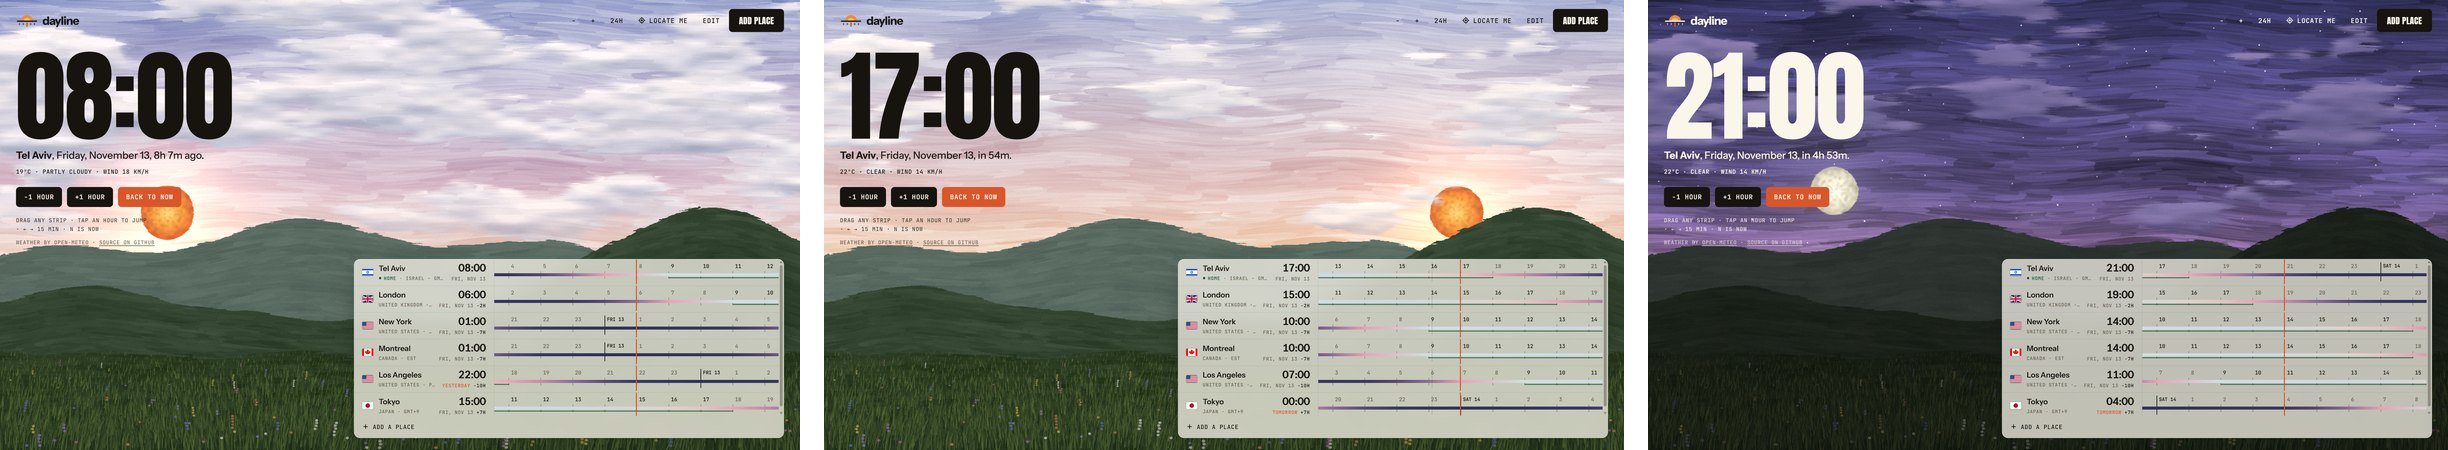
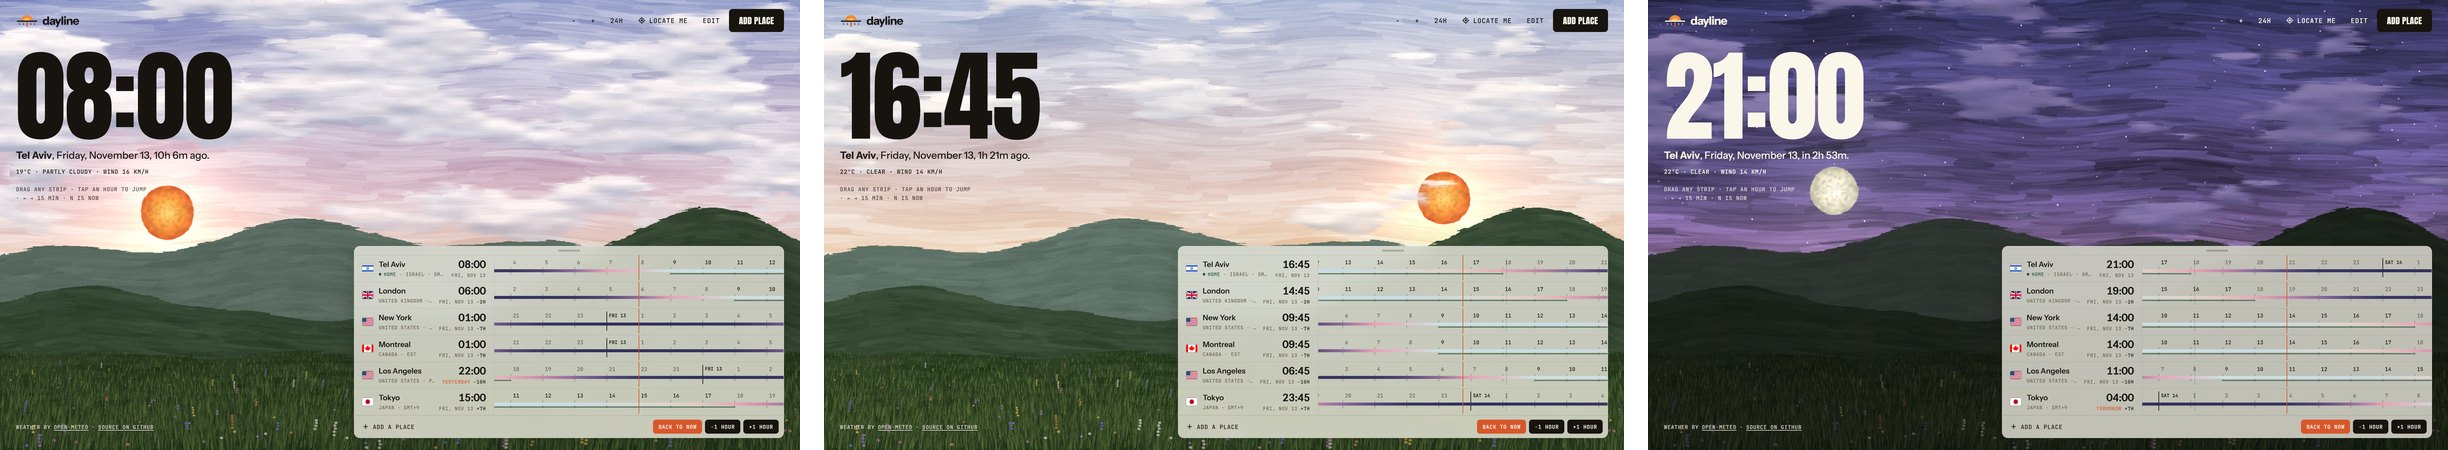
Refresh screenshots for the new layout; short hour labels on phones
- Preview and day strip now show the hour steps in the panel footer and the
  credit at the bottom-left.
- On phones the footer buttons read Now / -1h / +1h so Add a place stays on one line.
- README: describe the footer controls, Edit mode, and how city search really works.

diff --git a/index.html b/index.html
@@ -70,7 +70,8 @@ nav{position:relative;z-index:5;display:flex;align-items:center;gap:6px;padding:
 .credit a{color:inherit;text-decoration:underline;text-underline-offset:2px;text-decoration-thickness:1px}
 .credit a:hover{color:var(--cream)}
 .sheet-foot{flex:none;display:flex;align-items:center;gap:12px;padding-right:10px;border-top:1px solid var(--rule)}
-.sheet-foot .add-row{width:auto;flex:1}
+.sheet-foot .add-row{width:auto;flex:1;white-space:nowrap;min-width:0}
+.ctl .sm{display:none}
 .controls{display:flex;gap:6px;flex:none}
 .ctl{height:28px;padding:0 11px;border-radius:6px;background:var(--ink);color:var(--cream);font-size:10.5px;white-space:nowrap}
 .ctl:hover{background:#2B261D}
@@ -182,6 +183,8 @@ dialog::backdrop{background:rgba(23,20,15,.55)}
   .loc span{display:none}
   .ctl{height:30px;padding:0 10px;font-size:10.5px}
   .sheet-foot .add-row{padding:0 12px}
+  .ctl .lg{display:none}
+  .ctl .sm{display:inline}
   :root{--label-w:auto}
   .card{grid-template-columns:auto minmax(0,1fr) auto;grid-template-areas:"h l a" "s s s"}
   .label{border-right:0;padding:9px 12px 2px}
@@ -222,9 +225,9 @@ dialog::backdrop{background:rgba(23,20,15,.55)}
         <div class="sheet-foot">
           <button class="add-row mono" id="addBtn2"><svg viewBox="0 0 24 24" fill="none" stroke="currentColor" stroke-width="2.6" stroke-linecap="round"><path d="M12 5v14M5 12h14"/></svg>Add a place</button>
           <div class="controls">
-            <button class="ctl mono now" id="nowBtn">Back to now</button>
-            <button class="ctl mono" id="minus1">−1 hour</button>
-            <button class="ctl mono" id="plus1">+1 hour</button>
+            <button class="ctl mono now" id="nowBtn" aria-label="Back to now"><span class="lg">Back to now</span><span class="sm">Now</span></button>
+            <button class="ctl mono" id="minus1" aria-label="Back one hour"><span class="lg">−1 hour</span><span class="sm">−1h</span></button>
+            <button class="ctl mono" id="plus1" aria-label="Forward one hour"><span class="lg">+1 hour</span><span class="sm">+1h</span></button>
           </div>
         </div>
       </div>

diff --git a/README.md b/README.md
@@ -16,13 +16,13 @@ Dayline lines up your cities on a shared ruler of hours, so finding a time that 
 The whole thing is one HTML file with no build step and no dependencies.
 
 <p align="center">
-  <img src="media/day.jpg" alt="The same view at 8:00, 17:00 and 21:00: morning light, a sunset, and a starry night with the moon" width="100%">
+  <img src="media/day.jpg" alt="The same view at 8:00, 16:45 and 21:00: morning light, a sunset, and a starry night with the moon" width="100%">
 </p>
 
 ## Features
 
-- **One timeline for every place.** Drag any strip (with inertia) to move through time, or tap an hour to jump to it. Working hours are marked, midnight shows the date change, and each row shows its offset from home.
-- **Your places, your order.** Add any city in the world, then remove, reorder, rename, or set one as home.
+- **One timeline for every place.** Drag any strip (with inertia) to move through time, or tap an hour to jump to it. The panel footer steps an hour at a time and brings you back to now. Working hours are marked, midnight shows the date change, and each row shows its offset from home.
+- **Your places, your order.** Add any city in the world, then use *Edit* to remove, reorder or rename places, or set one as home.
 - **Knows where you are.** Your city is detected from your IP on the first visit. *Locate me* uses your device's location for a precise fix.
 - **A living background.** The scene is painted on the GPU in brush strokes: grass and flowers sway in the wind, and the weather changes with the forecast as you scrub through the next three days.
 - **A panel you can place.** On desktop, drag the places panel by its top bar to anywhere on screen (or move it with the arrow keys); double-click the bar to dock it again. Its spot is remembered.
@@ -38,7 +38,7 @@ The whole thing is one HTML file with no build step and no dependencies.
 | Time | `Intl.DateTimeFormat` with IANA time zones; no date library |
 | Rendering | WebGL2. A painted stroke field is baked once per resize, then each frame draws the sky, clouds, sun and moon, hills, instanced grass blades, flowers, and rain or snow particles |
 | Weather | [Open-Meteo](https://open-meteo.com/) current and hourly forecast, cached for 30 minutes and interpolated to the time on screen |
-| City search | Open-Meteo geocoding |
+| City search | A built-in list of major cities plus every IANA time zone; Open-Meteo geocoding supplies coordinates for the weather |
 | Location | [ipwho.is](https://ipwho.is/) with [ipapi.co](https://ipapi.co/) as fallback; browser geolocation plus [BigDataCloud](https://www.bigdatacloud.com/) reverse geocoding for *Locate me* |
 
 Browsers without WebGL2 fall back to a CSS gradient sky; everything else keeps working.
